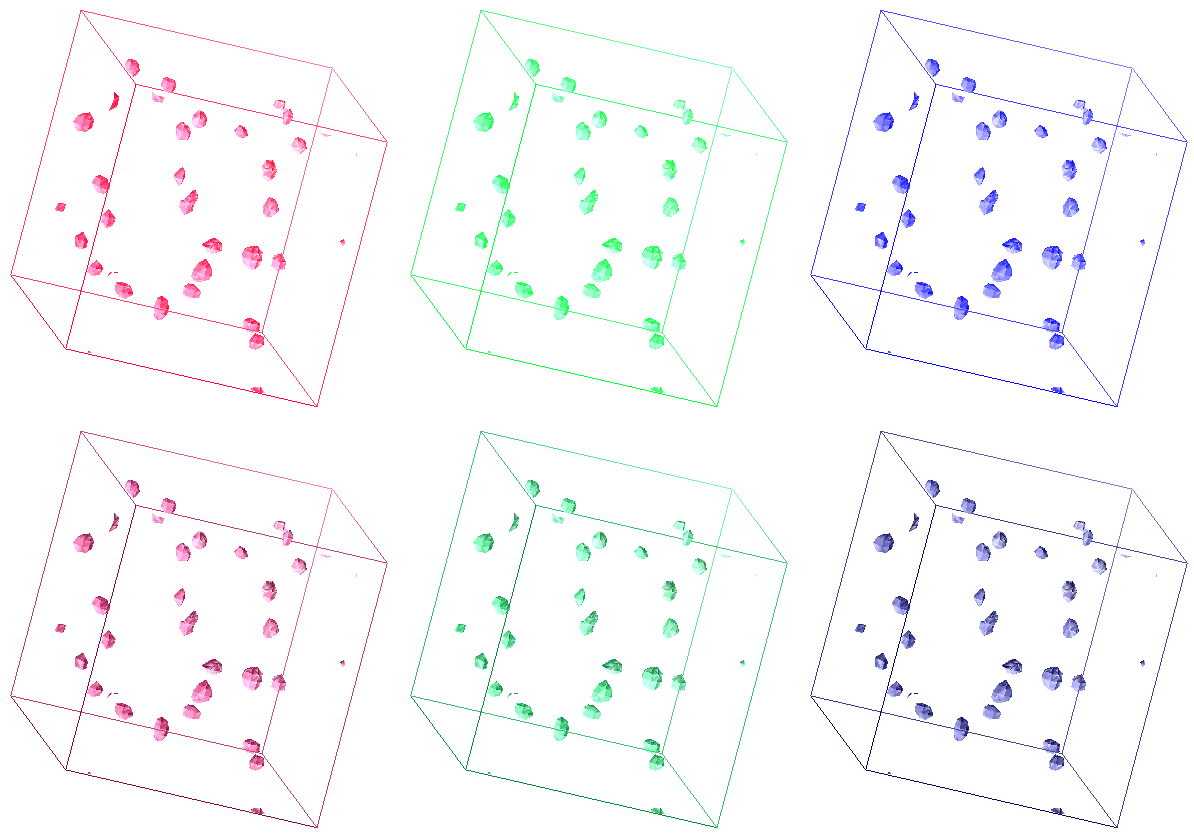
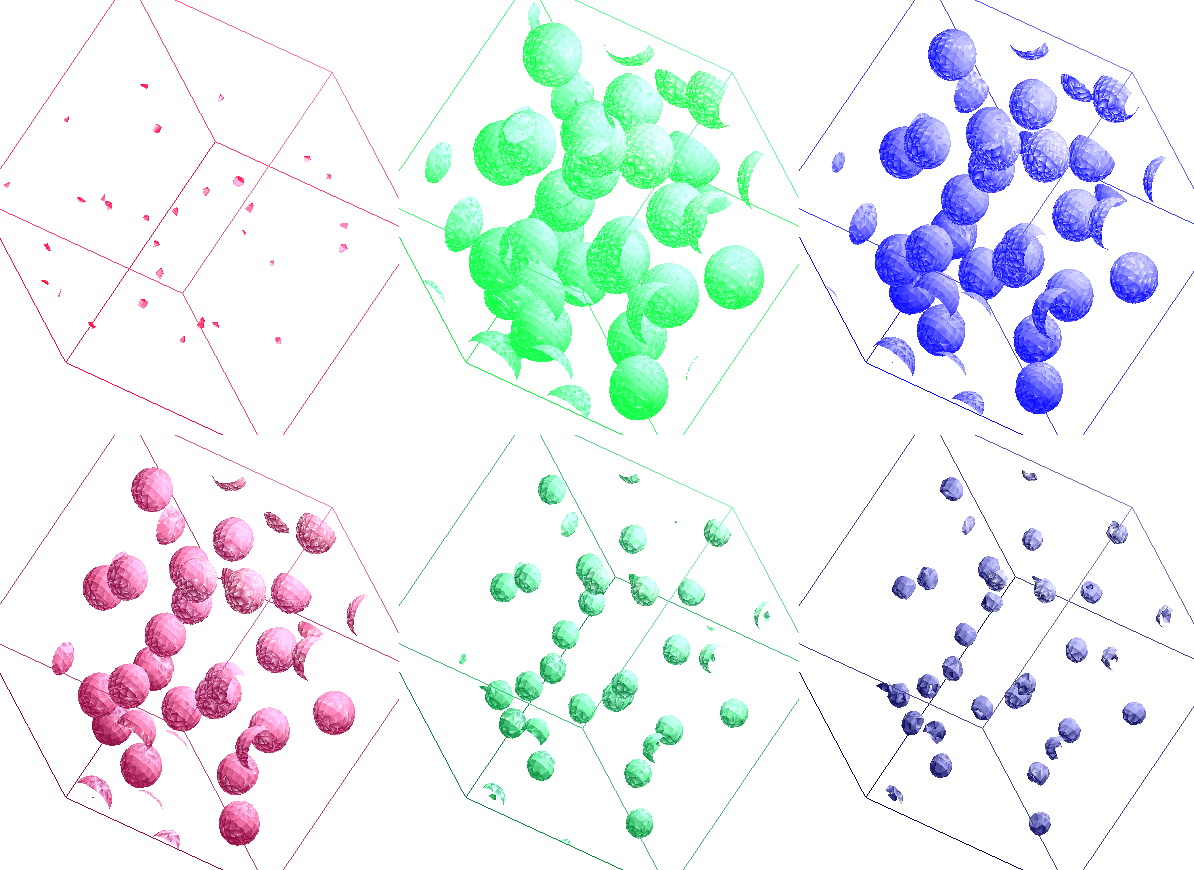
Update output figures

diff --git a/README.md b/README.md
@@ -16,35 +16,35 @@ resolution
 
 # Results
 
-Enter one 0.01 isovalues:
-![](doc/one_isovalue.png)
+Enter one 0.02 isovalues:
+![](doc/1_isovalue_0.02.png)
 
-Press "a" to add 0.02 to the isovalue: 
-![](doc/one_isovalue_higer_isovalue.png)
+Press "a" to add 0.02 to the isovalue(0.04): 
+![](doc/1_isovalue_0.02_press_a_0.04.png)
 
-Enter two 0.01 isovalues:
-![](doc/2_isovalues.png)
+Enter two isovalues(0.01, 0.03):
+![](doc/2_isovalues_0.01_0.03.png)
 
-Click left view:
-![](doc/2_isovalues_left_higer_resolution.png)
+Enter two same isovalues (0.04, 0.04) and click the left view:
+![](doc/2_isovalues_0.04_left_clicked.png)
 
-Press "a" to add 0.02 to the isovalue: 
-![](doc/2_isovalues_higher_isovalue.png)
+Press "a" to add 0.02 to the isovalue(0.03, 0.05): 
+![](doc/2_isovalues_0.01_0.03_with_a_pressed.png)
 
 Enter three isovalues(0.01, 0.03, 1.03):
-![](doc/three_different_isovalues.png)
+![](doc/3_isovalues_0.01_0.02_1.03.png)
 
-Enter four 0.01 isovalues:
-![](doc/4_isovalues.png)
+Enter four 0.01 isovalues(0.07,1.07,2.07,3.07):
+![](doc/4_isovalues_0.07_1.07_2.07_3.07.png)
 
-Enter six 0.01 isovalues:
-![](doc/6_isovalues.png)
+Enter six isovalues(0.01,0.51,1.01,1.51,3.4,4.2):
+![](doc/6_isovalues_0.01_0.51_1.01_1.51_3.4_4.2.png)
 
 Press "k" or "l" to rotate view:
 ![](doc/6_isovalues_rotated.png)
 
-Enter nine 0.01 isovalues:
-![](doc/9_isovalues.png)
+Enter nine isovalues(0.01,0.02,0.05,1.03,1.5,2.4,3.6,0.04,1.8):
+![](doc/9_isovalues_0.01_0.02_0.05_1.03_1.5_2.4_3.6_0.04_1.8.png)
 
 # Performance
 
